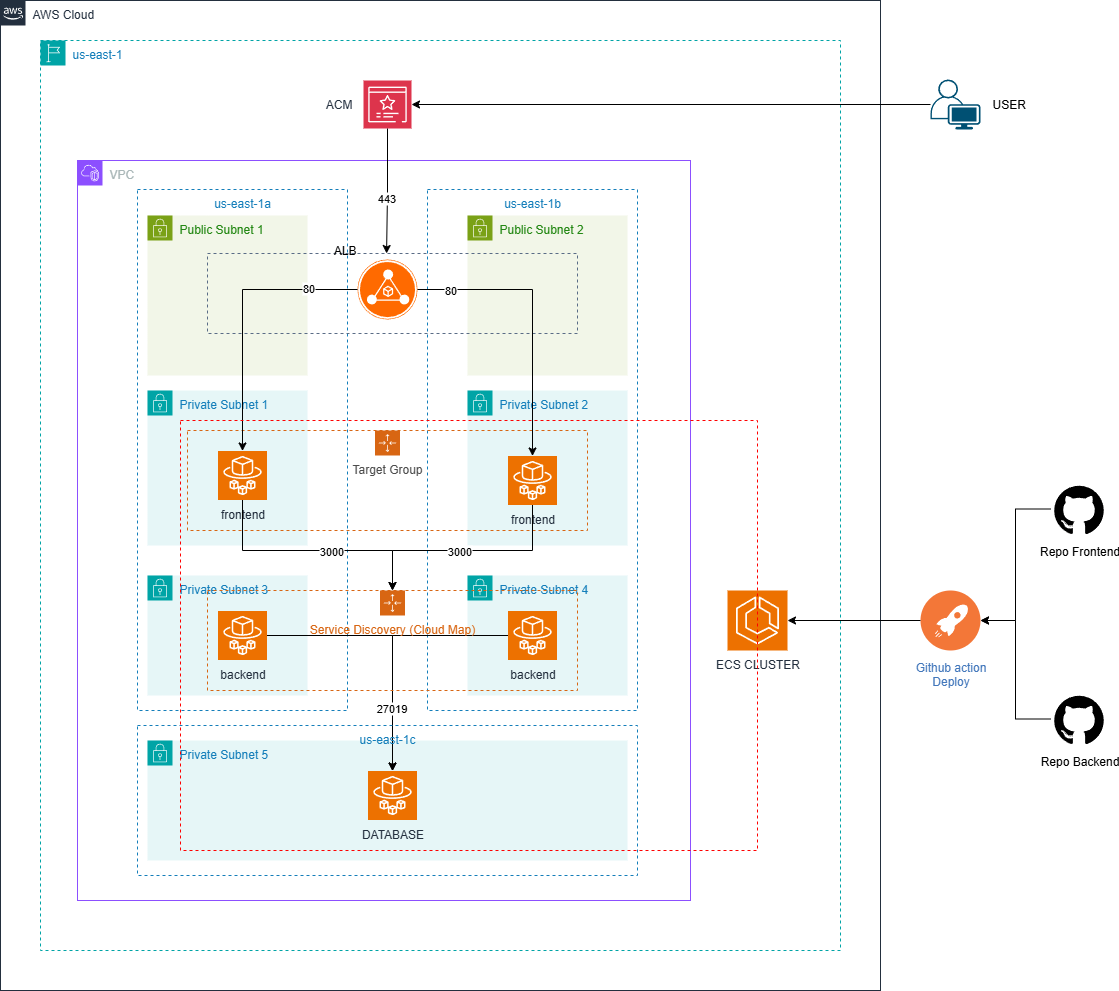
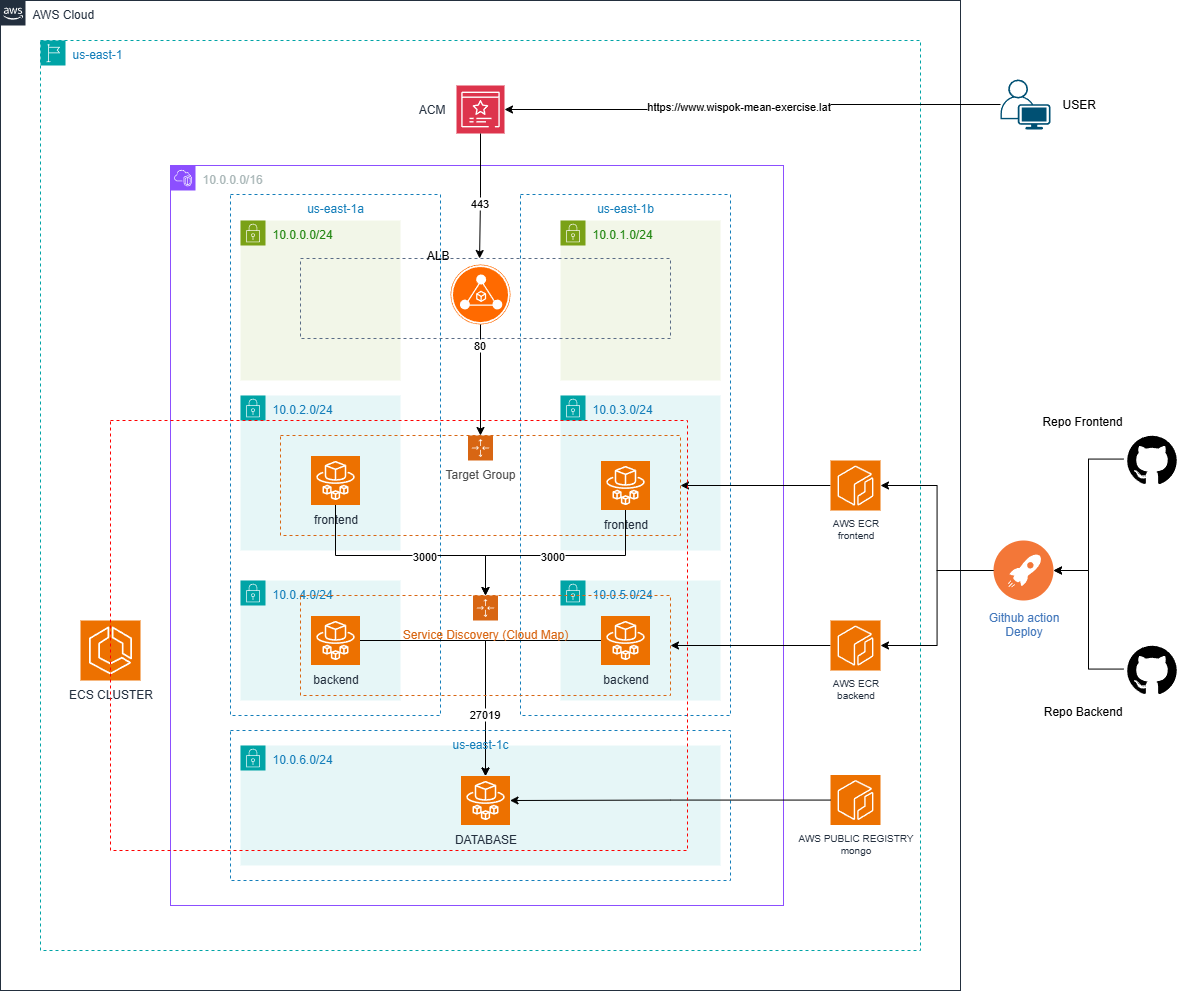
Updated readme with new diagram revision and explan missing elements

diff --git a/README.md b/README.md
@@ -3,6 +3,16 @@
 ## Introducción
 This document shows the implemented solution for the technical challenge explained in this repository:
 [Repo Challenge](https://github.com/dram2093/MEAN-Stack-Exercise-Requirements)
+
+
+### **TL;DR;**
+The test will consist on deploying a three tier app, front end, back end, and database. The front end is an Angular6 app, the back end a NodeJS app, and the database engine is MongoDB.
+- The front end and backend need to be Dockerized.
+- The front end needs to be Internet exposed.
+- The front end needs to be exposed via a load balancer.
+- "High Availability" is required.
+- The solution should be cost effective.
+
 The architecture is based on AWS infrastructure, a backend in Node.js, a frontend in AngularJS, and a MongoDB database. All components (frontend, backend, and DB) were containerized for deployment in a production environment.
 
 The main goal is to demonstrate an operational online app, infrastructure management with IaC tools, and automatic deployment.
@@ -28,11 +38,16 @@ An Application Load Balancer is exposed to the internet, with an AWS ACM Certifi
 An ECS Cluster was created with Service Discovery (Cloud Map) to generate local domains for the backend and database containers.
 
 The frontend was deployed in containers using the ECS Fargate service and attached to the Application Load Balancer using a target group.
+During deployment a *Docker image* is generate and pushed to the private repository in AWS ECR service.
 
 The backend and database (MongoDB) were also deployed in containers using the ECS Fargate service, but these resources are not exposed to the Application Load Balancer. Local domains were generated so the frontend can communicate with the backend through its own local domain, and the backend can communicate with the database using a local domain as well.
 
+The backend  *Docker image* is generate and pushed to the private repository in AWS ECR service.
+
+> The  docker image used to deploy **mongodb** was pulled from the aws public registry, this was achieve in this way just for demo pourposes.
+
 #### Repositorio de IaC
-[CKD infrastructure repository ](https://github.com/leoelcoder/mean-stack-exercise-infrastructure)
+[CDK infrastructure repository ](https://github.com/leoelcoder/mean-stack-exercise-infrastructure)
 
 
 ##### How to deploy
